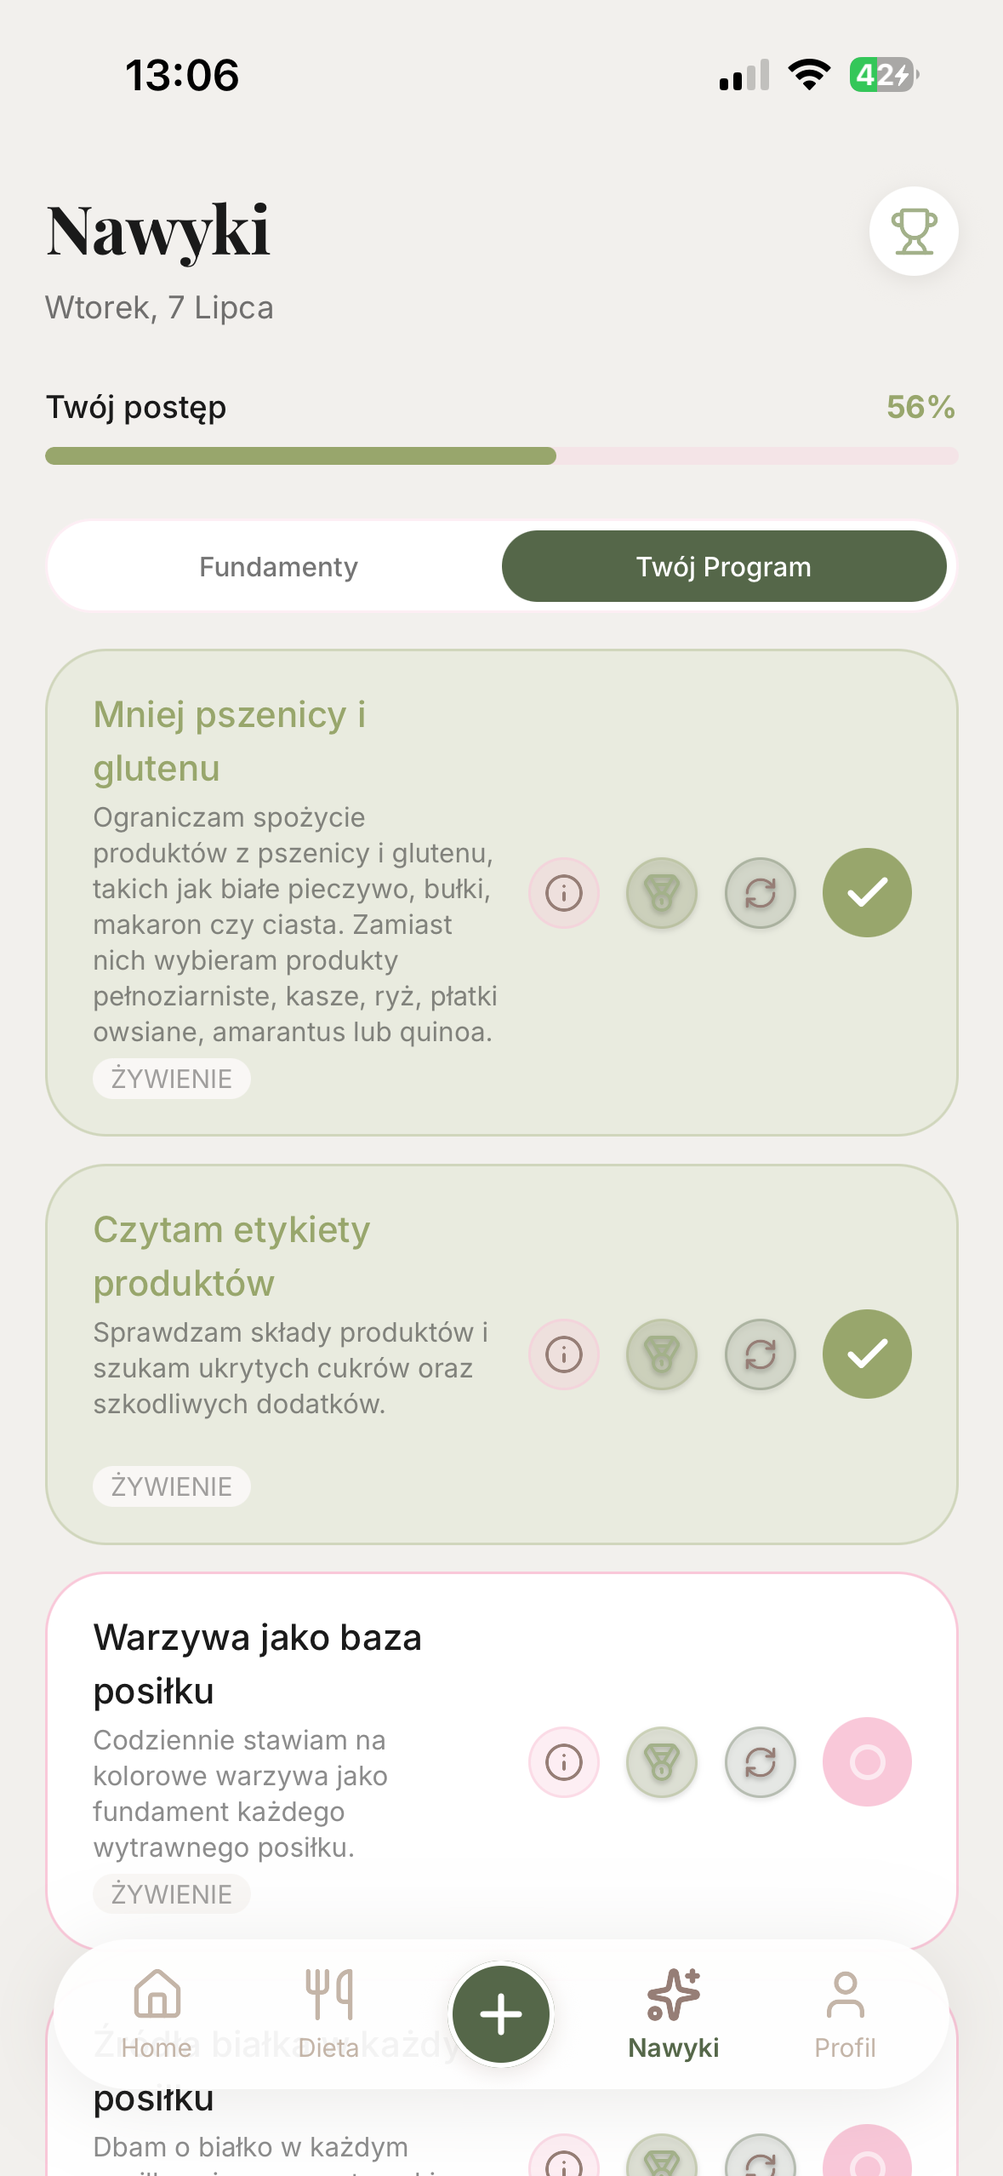
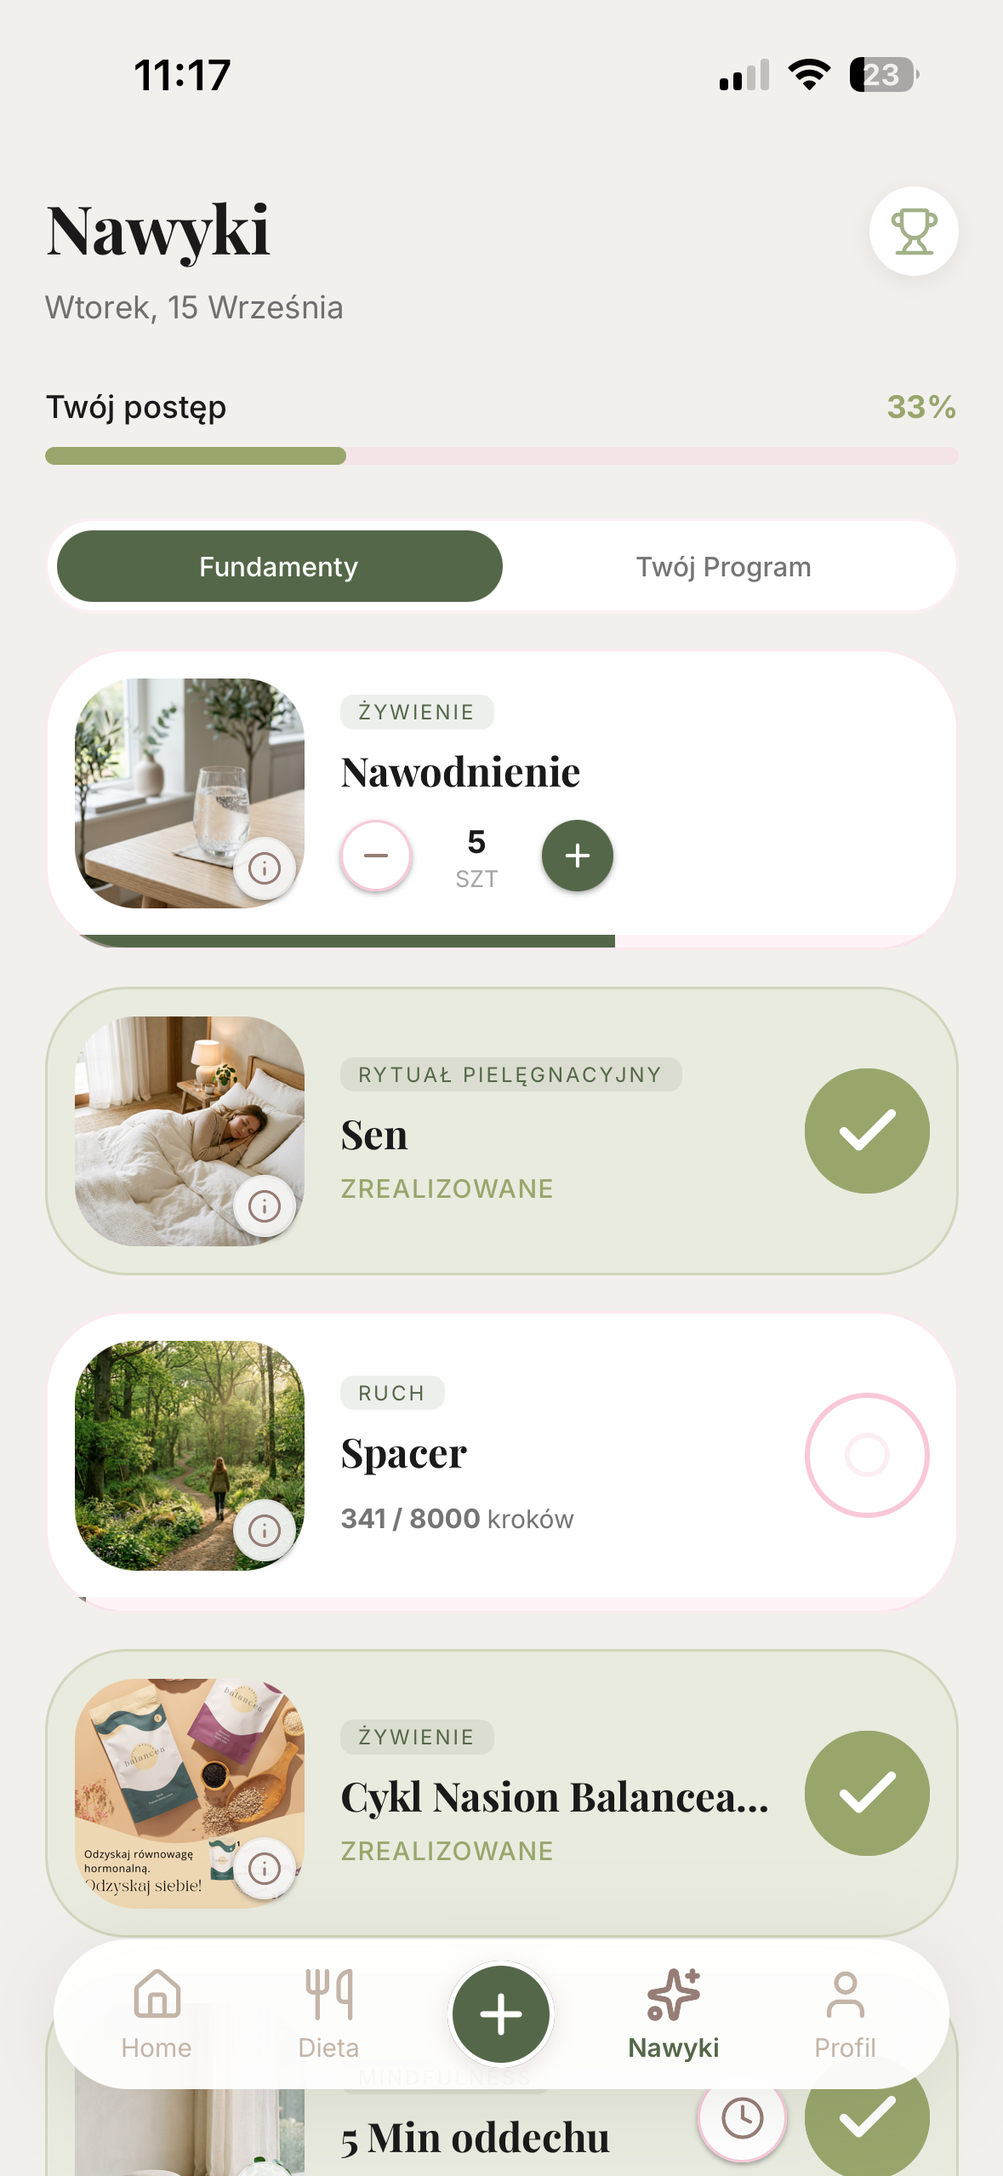
feat: landing - odswiezenie stopki, kontaktu, hero i sekcji "co pomaga"
Konsultacje (Stripe checkout) NIE wchodza w tym pushu - zostaja w monorepo
na branchu konsultacje do czasu gotowosci.

Stopka
- ukryte "Opinie uzytkowniczek" i "O nas" (do czasu az bedzie wiecej opinii)
- ikony social media wydzielone do SocialLinks.tsx (jedno zrodlo, uzywane
  tez na /kontakt)

Kontakt
- dane spolki (OH! CLUB Sp. z o.o., KRS/NIP/REGON, adres) w nowym
  SITE.legalEntity
- 3 linki social media (SocialLinks, wariant jasny)

Dla mediow — e-mail zamieniony na kontakt@ohclub.app

Menu — "Home" na poczatku, prowadzi na /

Strona glowna
- Hero: naglowek mniejszy/pogrubiony/rozowy (nowy token --color-accent-pink-deep,
  bo accent-pink na tekscie ma kontrast ~1.3:1 na cream - nieczytelne)
- badge "Odbierz 7 dni za darmo" nad CTA - celowo inny styl niz przycisk
  (jasne tlo, wersaliki, mniejszy), zeby nie konkurowal wizualnie z prawdziwym CTA
- "Historia OH! Club" -> "Historia zalozycielki OH! Club"
- "Klaudia, zalozycielka OH! Club" -> "Klaudia, dietetyczka kliniczna"
- chmurki w sekcji "Dlaczego chwilowe efekty..." na rozowo
- nowy pasek CTA "Gotowa, by zadbac o siebie inaczej?" nad stopka -> /pobierz
- sekcja "Twoje cialo ma zdolnosc..." - poprawiona ramka telefonu (ten sam
  "doppelbezel" co w Hero, poprzedni box mial zle proporcje i docinal zrzut)
  + nowy zrzut ekranu nawyki_v2.png

Glowny przycisk na rozowo (accent-pink) w calym landingu: Navbar, Hero,
karta cennika, /start (MagneticButton)

diff --git a/src/components/Footer.tsx b/src/components/Footer.tsx
@@ -1,5 +1,6 @@
 import Image from "next/image";
 import Link from "next/link";
+import SocialLinks from "./SocialLinks";
 
 export default function Footer() {
     return (
@@ -29,7 +30,7 @@ export default function Footer() {
                         <li><Link href="/aplikacja" className="hover:text-accent-pink transition-colors">Aplikacja</Link></li>
                         <li><Link href="/tworcy" className="hover:text-accent-pink transition-colors">Twórcy treści</Link></li>
                         <li><Link href="/cennik" className="hover:text-accent-pink transition-colors">Cennik</Link></li>
-                        <li><Link href="/opinie" className="hover:text-accent-pink transition-colors">Opinie użytkowniczek</Link></li>
+                        {/* Opinie użytkowniczek: ukryte do czasu, aż będzie ich więcej (§1 zgłoszenia). */}
                         <li><Link href="/pobierz" className="hover:text-accent-pink transition-colors">Pobierz aplikację</Link></li>
                     </ul>
                 </div>
@@ -37,7 +38,7 @@ export default function Footer() {
                 <div>
                     <h3 className="font-serif text-xl font-bold mb-6 text-accent-yellow">Firma</h3>
                     <ul className="space-y-4 text-sm font-medium">
-                        <li><Link href="/o-nas" className="hover:text-accent-pink transition-colors">O nas</Link></li>
+                        {/* O nas: ukryte na razie (§1 zgłoszenia). */}
                         <li><Link href="/kontakt" className="hover:text-accent-pink transition-colors">Kontakt</Link></li>
                         <li><Link href="/media" className="hover:text-accent-pink transition-colors">Dla mediów</Link></li>
                     </ul>
@@ -56,32 +57,7 @@ export default function Footer() {
                 <p className="text-xs text-light-cream/60 font-medium">
                     &copy; {new Date().getFullYear()} OH! Club. Wszelkie prawa zastrzeżone.
                 </p>
-                <div className="flex gap-4">
-                    <a
-                        href="https://www.instagram.com/ohclub_pl/"
-                        target="_blank"
-                        rel="noopener noreferrer"
-                        className="w-10 h-10 rounded-full bg-light-cream/10 flex items-center justify-center hover:bg-accent-pink hover:text-primary-green transition-all"
-                    >
-                        IG
-                    </a>
-                    <a
-                        href="https://www.facebook.com/ohclubapp"
-                        target="_blank"
-                        rel="noopener noreferrer"
-                        className="w-10 h-10 rounded-full bg-light-cream/10 flex items-center justify-center hover:bg-accent-pink hover:text-primary-green transition-all"
-                    >
-                        FB
-                    </a>
-                    <a
-                        href="https://www.tiktok.com/@oh.club"
-                        target="_blank"
-                        rel="noopener noreferrer"
-                        className="w-10 h-10 rounded-full bg-light-cream/10 flex items-center justify-center hover:bg-accent-pink hover:text-primary-green transition-all"
-                    >
-                        TT
-                    </a>
-                </div>
+                <SocialLinks variant="dark" />
             </div>
         </footer>
     );

diff --git a/src/components/Hero.tsx b/src/components/Hero.tsx
@@ -18,7 +18,7 @@ export default function Hero() {
                     </div>
 
                     <h1
-                        className="enter font-serif text-4xl md:text-5xl lg:text-6xl mt-6 mb-7 text-primary-green leading-[1.15] tracking-tight"
+                        className="enter font-serif font-bold text-3xl md:text-4xl lg:text-5xl mt-6 mb-7 text-accent-pink-deep leading-[1.15] tracking-tight"
                         style={{ "--enter-delay": "120ms" } as React.CSSProperties}
                     >
                         Chcesz odzyskać równowagę hormonalną bez zgadywania i rygorystycznych diet?
@@ -33,10 +33,17 @@ export default function Hero() {
                         aktualnej fazy Twojego cyklu.
                     </p>
 
-                    <div className="enter w-full flex flex-col items-center lg:items-start gap-3" style={{ "--enter-delay": "320ms" } as React.CSSProperties}>
+                    <div className="enter w-full flex flex-col items-center lg:items-start gap-3" style={{ "--enter-delay": "300ms" } as React.CSSProperties}>
+                        {/* Trudny do przeoczenia bezpłatny okres próbny — bezpośrednio nad
+                            głównym CTA. Celowo NIE jak przycisk (inny kształt, wersaliki,
+                            lżejsze tło), żeby nie konkurował wizualnie z prawdziwym CTA niżej. */}
+                        <span className="inline-flex items-center gap-2 bg-accent-pink/30 text-accent-pink-deep font-bold text-xs md:text-sm uppercase tracking-[0.12em] px-4 py-2 rounded-md mb-1">
+                            <span className="w-1.5 h-1.5 rounded-full bg-accent-pink-deep shrink-0" />
+                            Odbierz 7 dni za darmo
+                        </span>
                         <Link
                             href="/pobierz"
-                            className="inline-flex items-center justify-center px-8 py-4 rounded-full text-base font-bold bg-primary-green text-light-cream shadow-soft hover:bg-secondary-green hover:shadow-card transition-all duration-300 active:scale-[0.98]"
+                            className="inline-flex items-center justify-center px-8 py-4 rounded-full text-base font-bold bg-accent-pink text-primary-green shadow-soft hover:brightness-95 hover:shadow-card transition-all duration-300 active:scale-[0.98]"
                         >
                             Pobierz aplikację i wypełnij quiz
                         </Link>

diff --git a/src/components/HowItHelps.tsx b/src/components/HowItHelps.tsx
@@ -60,14 +60,21 @@ export default function HowItHelps() {
                         </div>
 
                         {/* Drugie wystąpienie realnego zrzutu apki — przypomnienie tuż przed
-                            CTA, że to działający produkt, nie makieta. */}
-                        <div className="self-start shrink-0 p-2 rounded-[1.75rem] bg-text-dark/95 shadow-card rotate-2">
-                            <div className="w-32 h-56 rounded-[1.4rem] overflow-hidden">
-                                <img
-                                    src="/screenshots/nawyki_v2.png"
-                                    alt="Zrzut ekranu aplikacji OH! Club, lista nawyków"
-                                    className="w-full h-full object-cover object-top"
-                                />
+                            CTA, że to działający produkt, nie makieta. Ten sam "doppelbezel"
+                            co w Hero (gruba ciemna obudowa + notch + prawidłowe proporcje
+                            ekranu 1179×2556), tylko w mniejszej skali — poprzednia wersja miała
+                            box o innych proporcjach niż realny zrzut, więc obraz był brzydko
+                            docinany przez object-cover. */}
+                        <div className="mx-auto md:mx-0 shrink-0 relative rotate-3">
+                            <div className="p-2 rounded-[2rem] bg-text-dark/95 shadow-card ring-1 ring-black/5">
+                                <div className="relative w-40 md:w-44 aspect-[1179/2556] bg-light-cream rounded-[1.6rem] overflow-hidden shadow-[inset_0_1px_1px_rgba(255,255,255,0.15)]">
+                                    <div className="absolute top-0 left-1/2 -translate-x-1/2 w-14 h-3.5 bg-text-dark rounded-b-lg z-20" />
+                                    <img
+                                        src="/screenshots/nawyki_v2.png"
+                                        alt="Zrzut ekranu aplikacji OH! Club, lista nawyków"
+                                        className="w-full h-full object-cover object-top"
+                                    />
+                                </div>
                             </div>
                         </div>
                     </div>

diff --git a/src/components/MagneticButton.tsx b/src/components/MagneticButton.tsx
@@ -51,10 +51,10 @@ export default function MagneticButton({
             href={href}
             onPointerMove={onMove}
             onPointerLeave={reset}
-            className={`group inline-flex items-center gap-3 rounded-full bg-primary-green py-3 pl-7 pr-3 text-base font-bold text-light-cream shadow-soft transition-[transform,background-color,box-shadow] duration-500 ease-[cubic-bezier(0.16,1,0.3,1)] hover:bg-secondary-green hover:shadow-card active:scale-[0.97] ${className}`}
+            className={`group inline-flex items-center gap-3 rounded-full bg-accent-pink py-3 pl-7 pr-3 text-base font-bold text-primary-green shadow-soft transition-[transform,filter,box-shadow] duration-500 ease-[cubic-bezier(0.16,1,0.3,1)] hover:brightness-95 hover:shadow-card active:scale-[0.97] ${className}`}
         >
             <span>{children}</span>
-            <span className="flex h-9 w-9 items-center justify-center rounded-full bg-light-cream/15 transition-transform duration-500 ease-[cubic-bezier(0.16,1,0.3,1)] group-hover:translate-x-0.5 group-hover:-translate-y-0.5 group-hover:scale-105">
+            <span className="flex h-9 w-9 items-center justify-center rounded-full bg-primary-green/10 transition-transform duration-500 ease-[cubic-bezier(0.16,1,0.3,1)] group-hover:translate-x-0.5 group-hover:-translate-y-0.5 group-hover:scale-105">
                 <svg width="15" height="15" viewBox="0 0 24 24" fill="none" aria-hidden="true">
                     <path
                         d="M7 17 17 7M9 7h8v8"

diff --git a/src/app/kontakt/page.tsx b/src/app/kontakt/page.tsx
@@ -1,6 +1,7 @@
 import type { Metadata } from "next";
 import Footer from "@/components/Footer";
 import Navbar from "@/components/Navbar";
+import SocialLinks from "@/components/SocialLinks";
 import { SITE } from "@/lib/site";
 
 export const metadata: Metadata = {
@@ -21,7 +22,17 @@ export default function Contact() {
                     <a href={`mailto:${SITE.contactEmail}`} className="text-primary-green hover:underline">{SITE.contactEmail}</a>
 
                     <p className="font-bold text-xl mb-2 mt-8">Media społecznościowe</p>
-                    <p className="text-text-dark/70">Odwiedź nasze profile na Instagramie i TikToku, aby być na bieżąco!</p>
+                    <p className="text-text-dark/70 mb-4">Odwiedź nasze profile na Instagramie, Facebooku i TikToku, aby być na bieżąco!</p>
+                    <SocialLinks variant="light" />
+
+                    <p className="font-bold text-xl mb-2 mt-8">Dane spółki</p>
+                    <div className="text-text-dark/70 leading-relaxed">
+                        <p>{SITE.legalEntity.name}</p>
+                        <p>{SITE.legalEntity.address}</p>
+                        <p>KRS: {SITE.legalEntity.krs}</p>
+                        <p>NIP: {SITE.legalEntity.nip}</p>
+                        <p>REGON: {SITE.legalEntity.regon}</p>
+                    </div>
                 </div>
             </main>
             <Footer />

diff --git a/src/components/SocialLinks.tsx b/src/components/SocialLinks.tsx
@@ -1,0 +1,40 @@
+import { SITE } from "@/lib/site";
+
+const links = [
+    { key: "instagram", label: "IG", href: SITE.socials.instagram },
+    { key: "facebook", label: "FB", href: SITE.socials.facebook },
+    { key: "tiktok", label: "TT", href: SITE.socials.tiktok },
+] as const;
+
+/**
+ * Ikony social media — jedno źródło (SITE.socials), używane w Footer i na /kontakt.
+ * `variant="dark"` dla ciemnego tła (stopka), `variant="light"` dla jasnych sekcji.
+ */
+export default function SocialLinks({
+    variant = "dark",
+    className = "",
+}: {
+    variant?: "dark" | "light";
+    className?: string;
+}) {
+    const styles =
+        variant === "dark"
+            ? "bg-light-cream/10 text-light-cream hover:bg-accent-pink hover:text-primary-green"
+            : "bg-primary-green/5 text-primary-green hover:bg-accent-pink hover:text-primary-green";
+
+    return (
+        <div className={`flex gap-4 ${className}`}>
+            {links.map((l) => (
+                <a
+                    key={l.key}
+                    href={l.href}
+                    target="_blank"
+                    rel="noopener noreferrer"
+                    className={`w-10 h-10 rounded-full flex items-center justify-center font-semibold text-sm transition-all ${styles}`}
+                >
+                    {l.label}
+                </a>
+            ))}
+        </div>
+    );
+}

diff --git a/src/lib/site.ts b/src/lib/site.ts
@@ -1,11 +1,28 @@
 export const SITE = {
   url: process.env.NEXT_PUBLIC_SITE_URL ?? "https://ohclub.app",
   name: "OH! Club",
+  // Uwaga: podmiot z faktur/starej rejestracji — używany dziś tylko jako fallback
+  // w treści polityki prywatności (lib/legal.ts), gdy CMS nie odpowiada.
+  // Dane nowej spółki (KRS) są w `legalEntity` niżej i pokazywane na /kontakt —
+  // do ustalenia z użytkownikiem, czy company/nip/address mają się zunifikować.
   company: "Great Skill Arkadiusz Kuczewski",
   nip: "7182147987",
   address: "Kazańska 14, Łomża",
+  // Dane spółki OH! CLUB Sp. z o.o. — wyświetlane na /kontakt.
+  legalEntity: {
+    name: "OH! CLUB SPÓŁKA Z OGRANICZONĄ ODPOWIEDZIALNOŚCIĄ",
+    krs: "0001265249",
+    nip: "5423519605",
+    regon: "54567494300000",
+    address: "Kawaleryjska 9/2, 15-324 Białystok",
+  },
   contactEmail: "kontakt@ohclub.app",
-  mediaEmail: "media@ohclub.app",
+  mediaEmail: "kontakt@ohclub.app",
   appStoreUrl: "https://apps.apple.com/us/app/oh-club/id6759370830",
   playStoreUrl: "https://play.google.com/store/apps/details?id=com.ohclub.app",
+  socials: {
+    instagram: "https://www.instagram.com/ohclub_pl/",
+    facebook: "https://www.facebook.com/ohclubapp",
+    tiktok: "https://www.tiktok.com/@oh.club",
+  },
 } as const;

diff --git a/src/components/Navbar.tsx b/src/components/Navbar.tsx
@@ -18,6 +18,9 @@ export default function Navbar() {
                     </span>
                 </Link>
                 <nav className="hidden md:flex gap-7 text-sm font-semibold tracking-wide">
+                    <Link href="/" className="hover:text-primary-green transition-colors text-text-dark/80 hover:text-text-dark">
+                        Home
+                    </Link>
                     <Link href="/aplikacja" className="hover:text-primary-green transition-colors text-text-dark/80 hover:text-text-dark">
                         Aplikacja
                     </Link>
@@ -31,7 +34,7 @@ export default function Navbar() {
                 <div className="flex items-center gap-4">
                     <Link
                         href="/pobierz"
-                        className="bg-primary-green text-light-cream px-5 md:px-6 py-2.5 rounded-full text-sm font-semibold hover:bg-secondary-green transition-all duration-300 shadow-sm hover:shadow-md active:scale-[0.98]"
+                        className="bg-accent-pink text-primary-green px-5 md:px-6 py-2.5 rounded-full text-sm font-semibold hover:brightness-95 transition-all duration-300 shadow-sm hover:shadow-md active:scale-[0.98]"
                     >
                         Pobierz aplikację
                     </Link>

diff --git a/src/components/FounderStory.tsx b/src/components/FounderStory.tsx
@@ -38,7 +38,7 @@ export default async function FounderStory() {
 
                     <div>
                         <Reveal>
-                            <Eyebrow>Historia OH! Club</Eyebrow>
+                            <Eyebrow>Historia założycielki OH! Club</Eyebrow>
                         </Reveal>
                         <Reveal delayMs={100}>
                             <h2 className="font-serif text-3xl md:text-[2.75rem] text-primary-green font-bold mt-5 mb-7 leading-[1.15] tracking-tight">
@@ -64,7 +64,7 @@ export default async function FounderStory() {
                         </Reveal>
                         <Reveal delayMs={260}>
                             <p className="font-serif text-xl text-primary-green italic mt-6 pl-6">
-                                Klaudia, założycielka OH! Club
+                                Klaudia, dietetyczka kliniczna
                             </p>
                         </Reveal>
                     </div>

diff --git a/src/components/JoinCtaBand.tsx b/src/components/JoinCtaBand.tsx
@@ -1,0 +1,21 @@
+import Eyebrow from "./Eyebrow";
+import MagneticButton from "./MagneticButton";
+import Reveal from "./Reveal";
+
+/**
+ * Szary pasek CTA tuż nad stopką — ostatnie wezwanie do działania na stronie
+ * głównej, zanim strona przechodzi w ciemnozieloną stopkę.
+ */
+export default function JoinCtaBand() {
+    return (
+        <section className="py-20 px-6 bg-stone-100">
+            <Reveal className="max-w-2xl mx-auto text-center flex flex-col items-center">
+                <Eyebrow>Zrób pierwszy krok</Eyebrow>
+                <h2 className="font-serif text-3xl md:text-4xl text-primary-green font-bold mt-5 mb-8 leading-[1.15] tracking-tight">
+                    Gotowa, by zadbać o siebie inaczej?
+                </h2>
+                <MagneticButton href="/pobierz">Dołącz do aplikacji</MagneticButton>
+            </Reveal>
+        </section>
+    );
+}

diff --git a/src/components/WhyStuckSection.tsx b/src/components/WhyStuckSection.tsx
@@ -40,7 +40,7 @@ export default function WhyStuckSection() {
                         {factors.map((factor) => (
                             <span
                                 key={factor}
-                                className="bg-white px-5 py-3 rounded-full text-text-dark/80 font-semibold shadow-sm ring-1 ring-black/[0.03] hover:ring-secondary-green/40 hover:-translate-y-0.5 transition-all duration-300"
+                                className="bg-accent-pink/40 px-5 py-3 rounded-full text-primary-green font-semibold shadow-sm ring-1 ring-accent-pink/60 hover:bg-accent-pink/60 hover:-translate-y-0.5 transition-all duration-300"
                             >
                                 {factor}
                             </span>

diff --git a/src/components/PricingCards.tsx b/src/components/PricingCards.tsx
@@ -140,7 +140,7 @@ export default function PricingCards() {
                                 className={`text-center px-6 py-3 rounded-full text-sm font-bold transition-all duration-300 ${
                                     plan.highlighted
                                         ? "bg-cream text-primary-green hover:bg-white"
-                                        : "bg-primary-green text-cream hover:bg-secondary-green"
+                                        : "bg-accent-pink text-primary-green hover:brightness-95"
                                 }`}
                             >
                                 Pobierz aplikację
